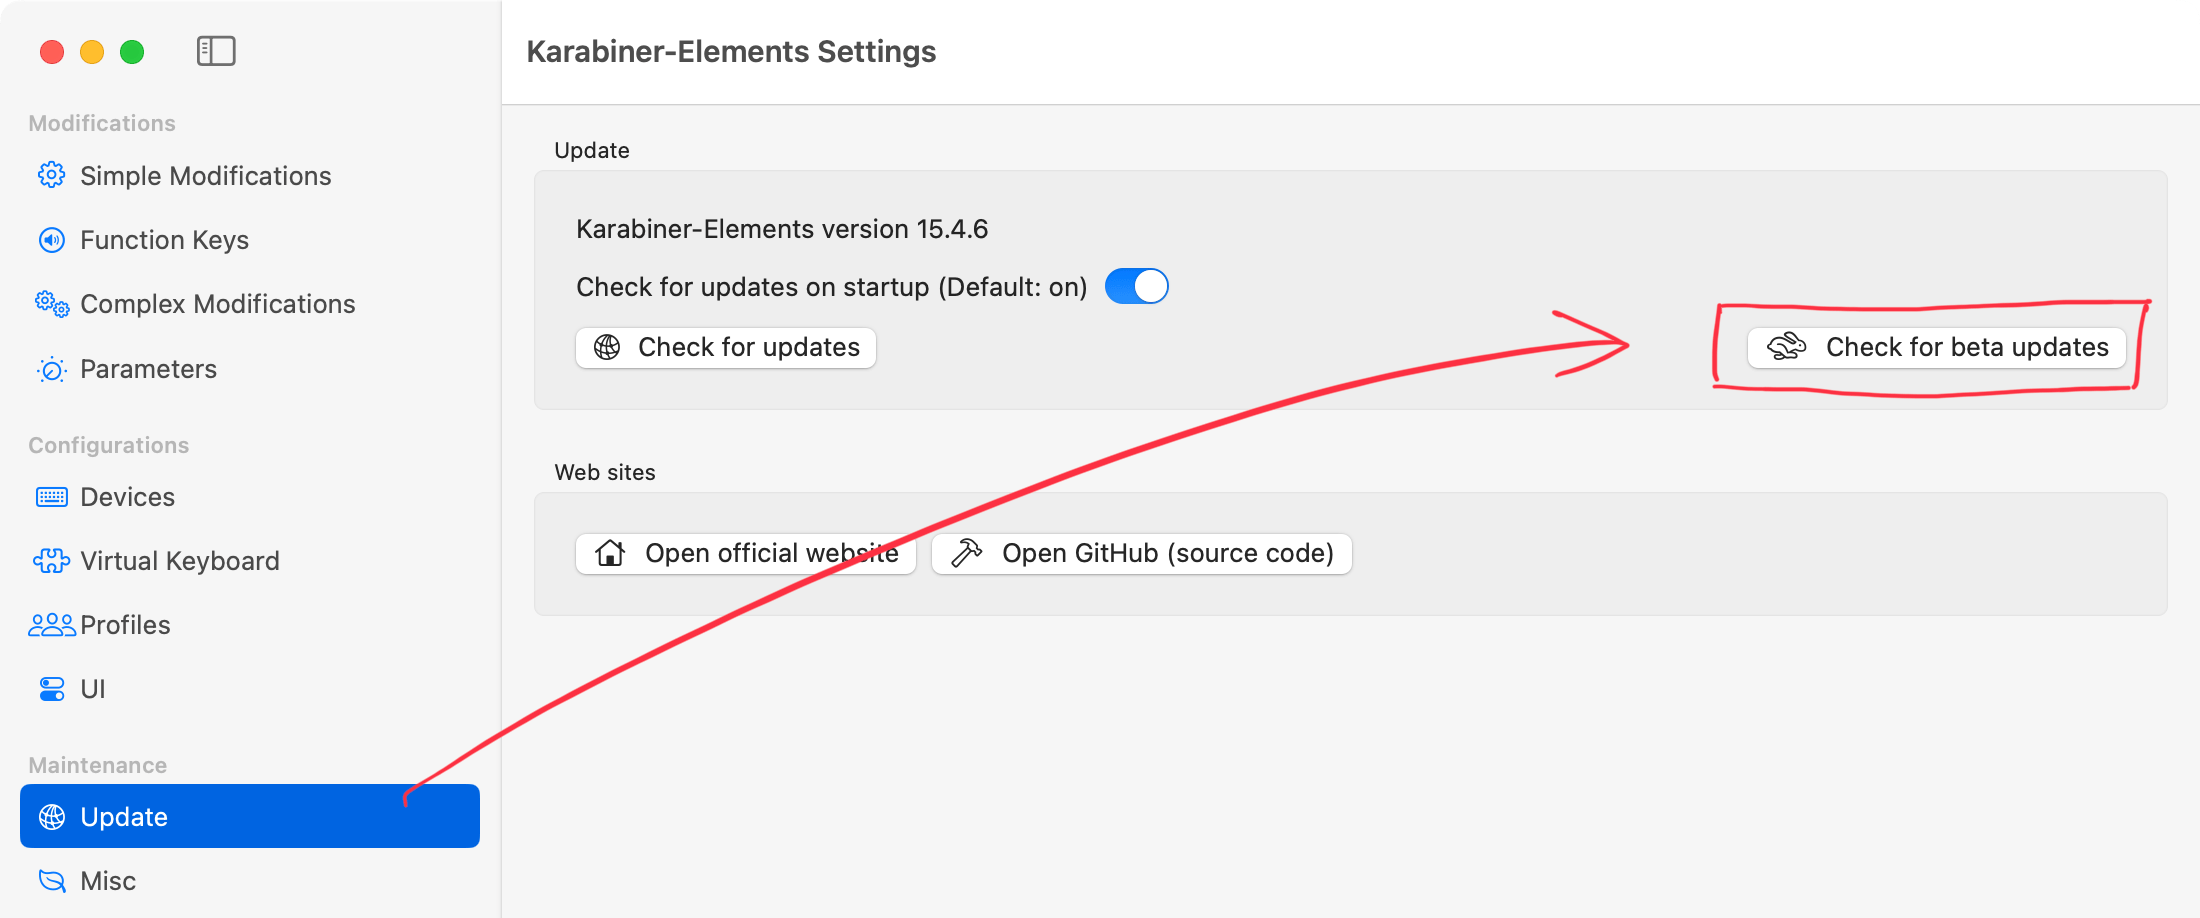
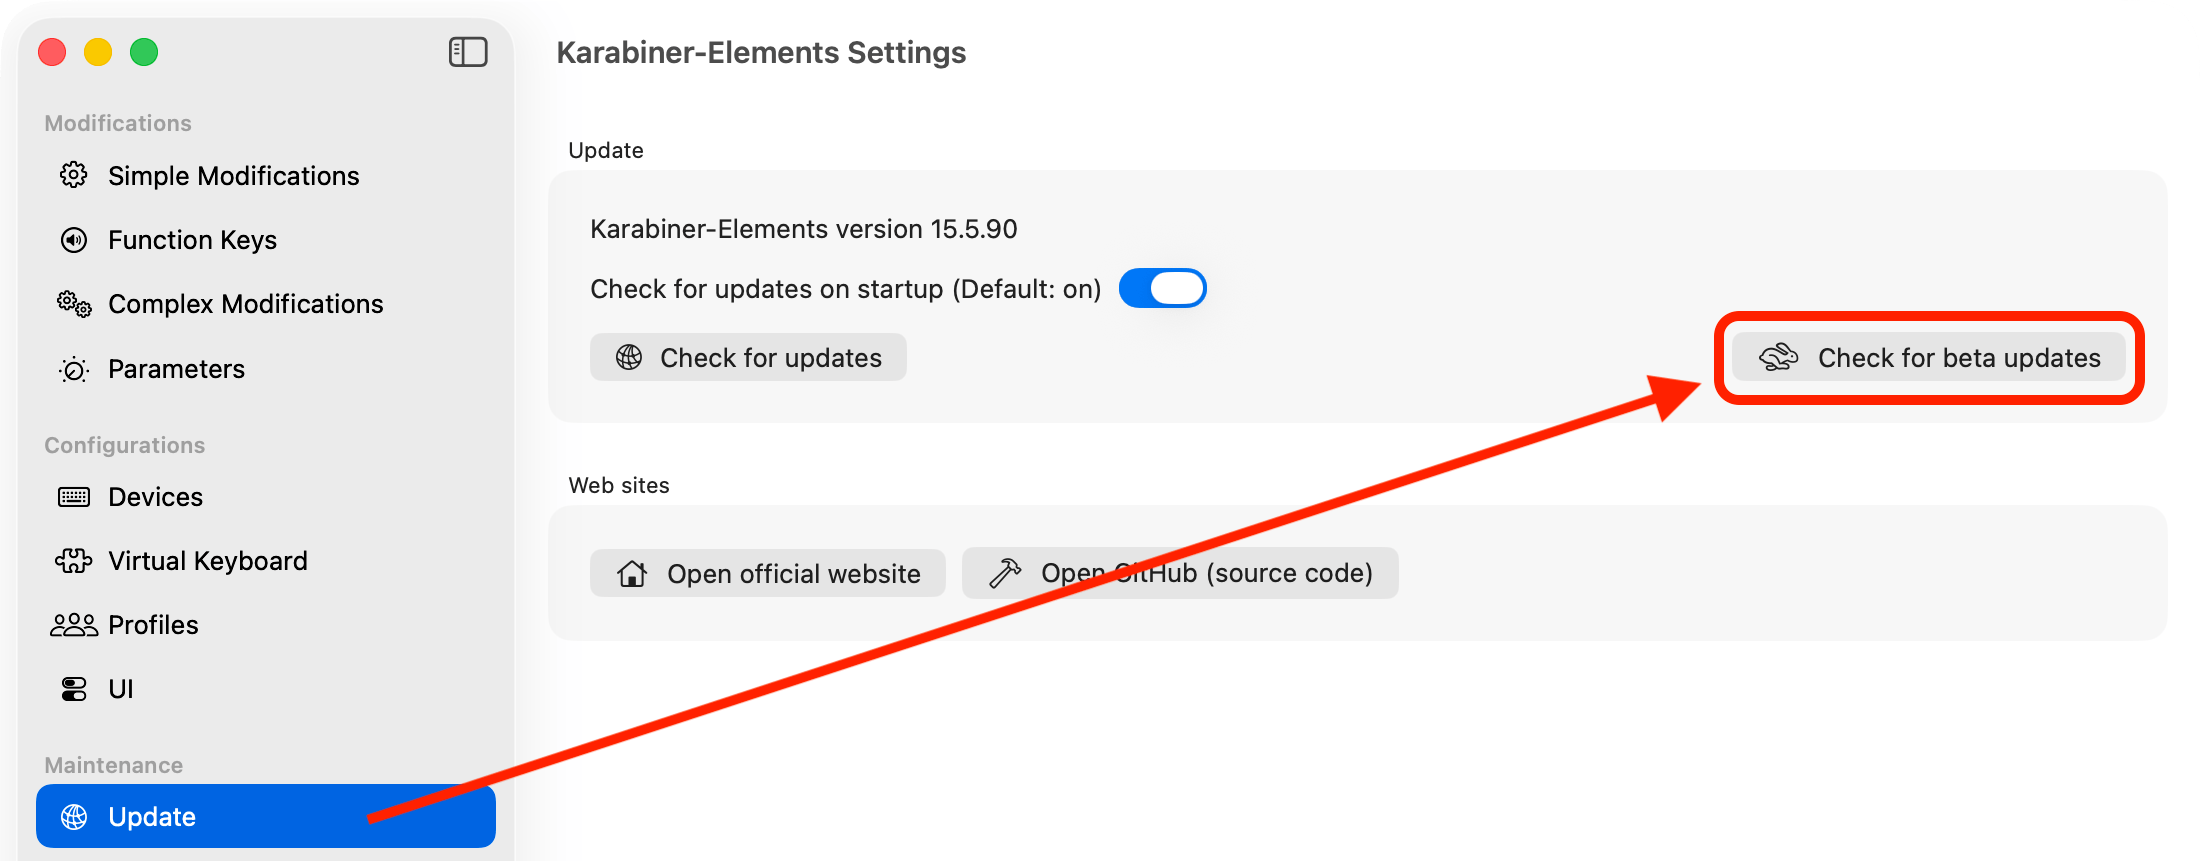
Update check-for-updates

diff --git a/sites/karabiner-elements/content/en/docs/manual/operation/check-for-updates/index.md b/sites/karabiner-elements/content/en/docs/manual/operation/check-for-updates/index.md
@@ -7,8 +7,8 @@ You can check for updates from Update tab.
 
 {{< local-image src="images/karabiner-elements-check-for-updates@2x.png" >}}
 
-{{% alert title="Tip" color="primary" %}}
-If you want to use the latest beta version, use "Check for beta updates" button.
+## Using the latest beta version
+
+You can also update to the beta version in development using the "Check for beta updates" button.
 
 {{< local-image src="images/karabiner-elements-check-for-updates-beta@2x.png" >}}
-{{% /alert %}}
